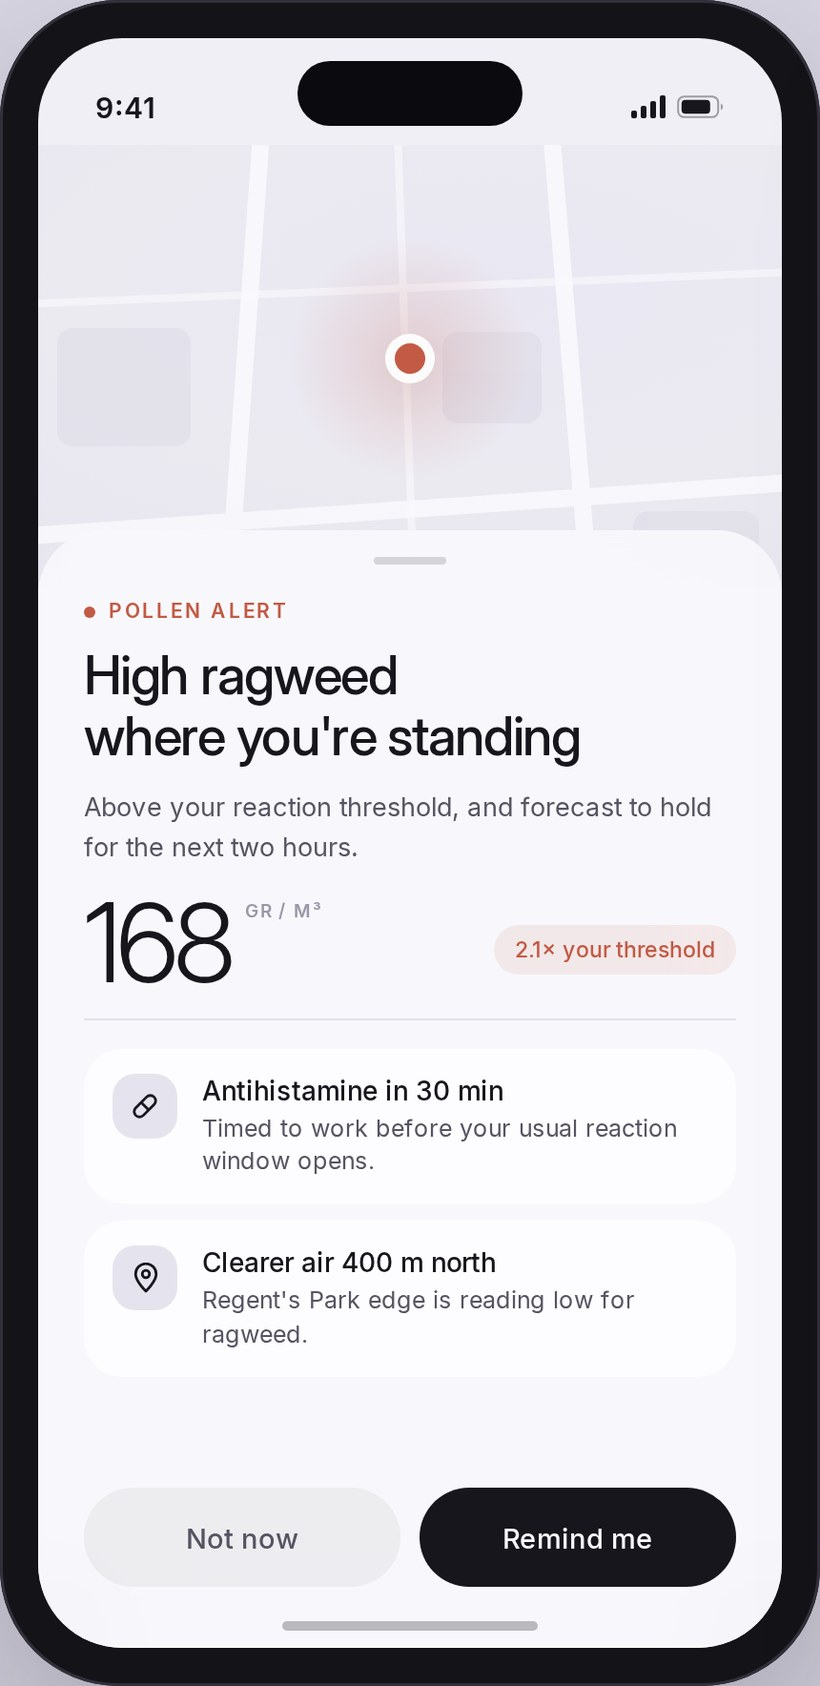
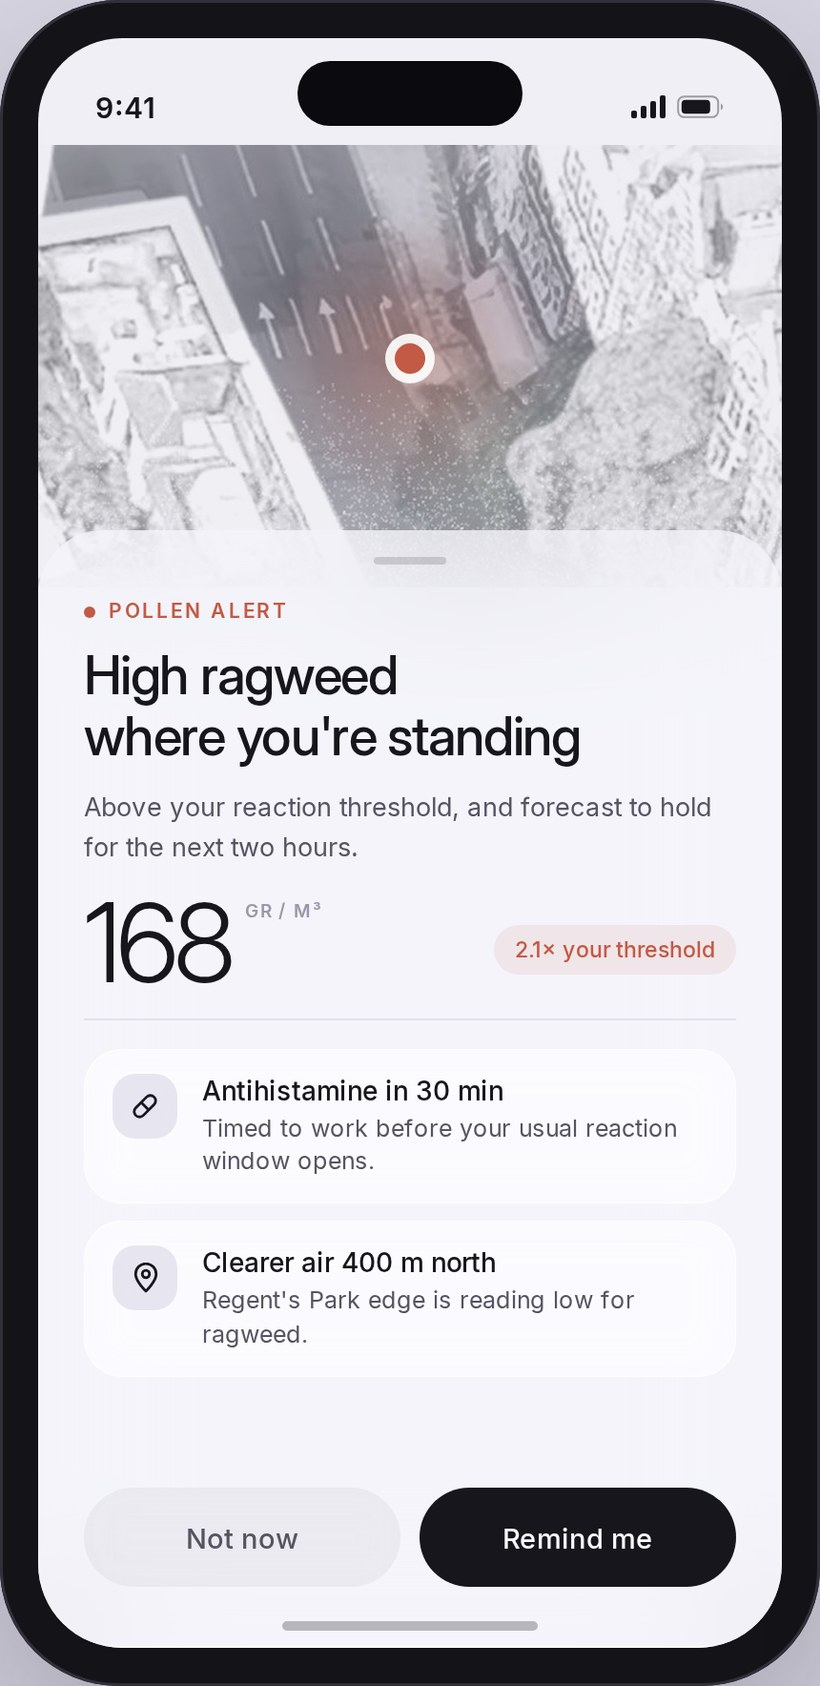
RES alert on a real map, Entropy links to the film
The alert screen's drawn street grid becomes an aerial plate cropped from
the original app screenshot, desaturated and tinted into the cool palette.
The grey layers over it are now genuinely translucent and blurred, so a
little of the map comes through the sheet, the action cards and the
detection sheet where it overlaps the photograph.

Entropy ends on the game film, using the click-to-play facade so a blocked
embed never shows a black rectangle, with a plain YouTube link beneath it.

Claude-Session: https://claude.ai/code/session_01A2AqwaHUmSdqfKoAZn74z6

Changed region(s): [[0.0305, 0.0617, 0.9756, 0.3393], [0.7317, 0.0617, 0.7622, 0.0925]]

diff --git a/work/res.html b/work/res.html
@@ -168,7 +168,7 @@
               <span class="thennow__tag">2025 · shipped</span>
             </figure>
             <figure class="thennow__shot">
-              <img src="../assets/images/res/app-alert-2026.jpg" alt="The 2026 redesign of the alert screen: a frosted-glass sheet over a map, headed 'High ragweed where you're standing', with a 168 grains per cubic metre reading marked as 2.1 times the user's threshold, an antihistamine timing row, a cleaner-air suggestion, and Not now / Remind me buttons" loading="lazy">
+              <img src="../assets/images/res/app-alert-2026.jpg" alt="The 2026 redesign of the alert screen: a frosted-glass sheet over an aerial map of the street with the user's position marked, headed 'High ragweed where you're standing', with a 168 grains per cubic metre reading marked as 2.1 times the user's threshold, an antihistamine timing row, a cleaner-air suggestion, and Not now / Remind me buttons" loading="lazy">
               <span class="thennow__tag thennow__tag--new">2026 · redesigned</span>
             </figure>
           <p class="thennow__cap"><strong>Alert.</strong> The original led with the word "Alert" and a duration. The redesign leads with what's actually happening and to whom, states the reading against the user's own threshold, and turns "take 2 pills" into a timed action plus an escape route: where the air is clearer.</p>

diff --git a/work/entropy.html b/work/entropy.html
@@ -192,6 +192,20 @@
         <figcaption>Ending: survive</figcaption>
       </figure>
     </div>
+
+    <h2>Watch it run</h2>
+    <p>The full film of the game, cut from the playtest footage.</p>
+
+    <div class="video-embed video-embed--facade" data-video="CPgogBC6sBg">
+      <button class="video-facade" type="button">
+        <img class="video-facade__img" src="../assets/images/entropy/demo-test-poster.jpg" alt="" loading="lazy">
+        <span class="video-facade__play" aria-hidden="true">
+          <svg viewBox="0 0 24 24" width="26" height="26" fill="currentColor"><path d="M8 5.5v13l11-6.5z"/></svg>
+        </span>
+        <span class="video-facade__label">Watch the Entropy film</span>
+      </button>
+    </div>
+    <p class="video-embed__fallback">Video not loading? <a href="https://www.youtube.com/watch?v=CPgogBC6sBg" target="_blank" rel="noreferrer">Watch it on YouTube ↗</a></p>
   </div>
 </section>
 
